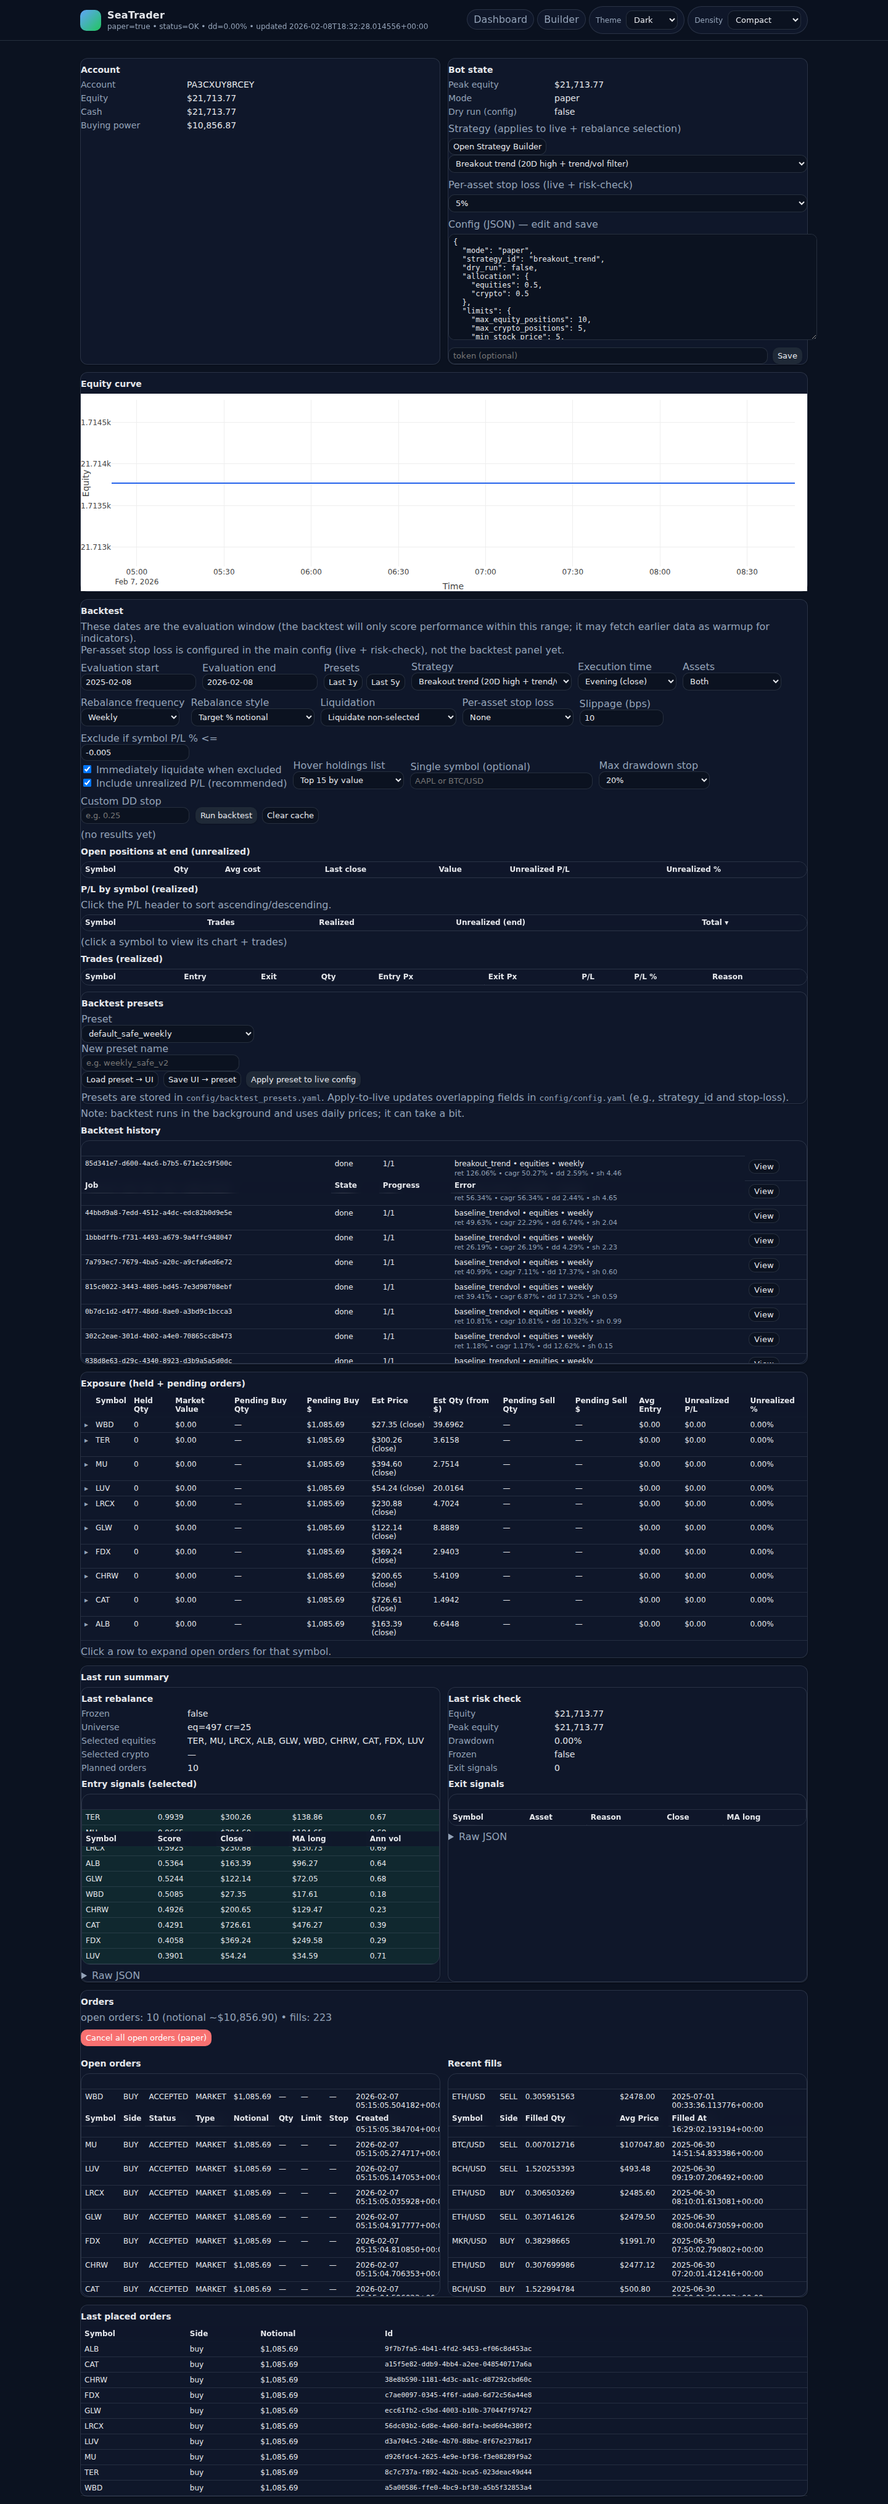
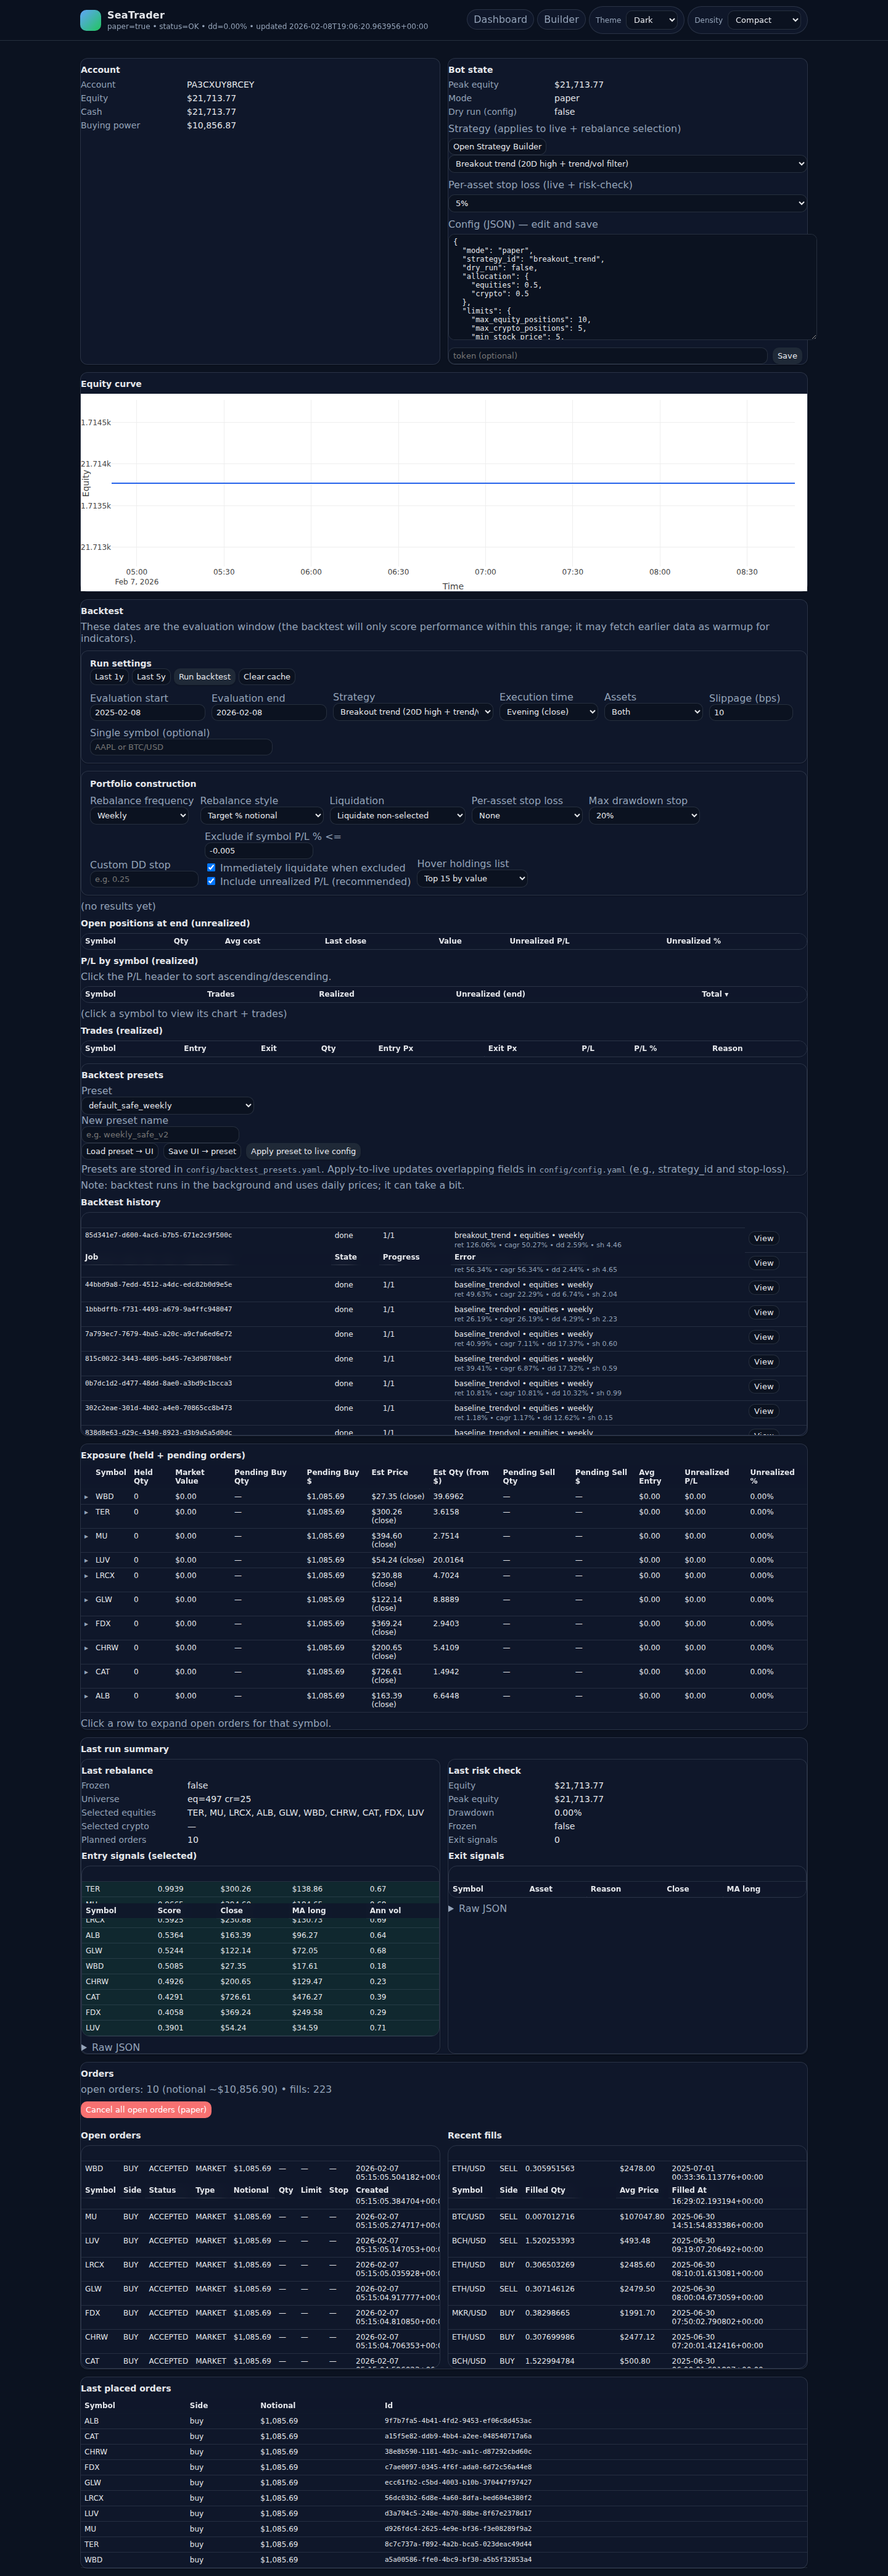
Dashboard UX: regroup backtest controls + theme consistency

diff --git a/src/tradebot/dashboard/index.html b/src/tradebot/dashboard/index.html
@@ -118,116 +118,125 @@
     <div class="card col-12">
       <h2>Backtest</h2>
       <div class="muted">These dates are the evaluation window (the backtest will only score performance within this range; it may fetch earlier data as warmup for indicators).</div>
-      <div class="muted">Per-asset stop loss is configured in the main config (live + risk-check), not the backtest panel yet.</div>
-      <div style="display:flex; gap:10px; align-items:flex-end; flex-wrap: wrap; margin-top:8px;">
-        <div>
-          <div class="muted">Evaluation start</div>
-          <input id="btStart" placeholder="YYYY-MM-DD" />
-        </div>
-        <div>
-          <div class="muted">Evaluation end</div>
-          <input id="btEnd" placeholder="YYYY-MM-DD" />
-        </div>
-        <div>
-          <div class="muted">Presets</div>
-          <div style="display:flex; gap:6px;">
-            <button id="btPreset1y" class="secondary">Last 1y</button>
-            <button id="btPreset5y" class="secondary">Last 5y</button>
+
+      <div class="grid" style="margin-top:10px; grid-template-columns: repeat(12, 1fr); gap:12px;">
+        <div class="card col-12" style="padding:12px 14px;">
+          <div class="row" style="justify-content:space-between; align-items:center;">
+            <h2 style="margin:0;">Run settings</h2>
+            <div class="row" style="align-items:center; gap:8px;">
+              <button id="btPreset1y" class="secondary">Last 1y</button>
+              <button id="btPreset5y" class="secondary">Last 5y</button>
+              <span id="btStatus" class="muted"></span>
+              <button id="btRun" class="primary">Run backtest</button>
+              <button id="btClearCache" class="secondary">Clear cache</button>
+            </div>
+          </div>
+
+          <div style="display:flex; gap:10px; align-items:flex-end; flex-wrap: wrap; margin-top:10px;">
+            <div>
+              <div class="muted">Evaluation start</div>
+              <input id="btStart" placeholder="YYYY-MM-DD" />
+            </div>
+            <div>
+              <div class="muted">Evaluation end</div>
+              <input id="btEnd" placeholder="YYYY-MM-DD" />
+            </div>
+            <div>
+              <div class="muted">Strategy</div>
+              <select id="btStrategy" style="width:260px;"></select>
+            </div>
+            <div>
+              <div class="muted">Execution time</div>
+              <select id="btExecTime" style="width:160px;">
+                <option value="open">Morning (open)</option>
+                <option value="close" selected>Evening (close)</option>
+              </select>
+            </div>
+            <div>
+              <div class="muted">Assets</div>
+              <select id="btAssets" style="width:160px;">
+                <option value="both" selected>Both</option>
+                <option value="equities">Stocks only</option>
+                <option value="crypto">Crypto only</option>
+              </select>
+            </div>
+            <div>
+              <div class="muted">Slippage (bps)</div>
+              <input id="btSlip" placeholder="10" value="10" style="width:120px;" />
+            </div>
+            <div>
+              <div class="muted">Single symbol (optional)</div>
+              <input id="btSymbol" placeholder="AAPL or BTC/USD" style="min-width:280px;" />
+            </div>
           </div>
         </div>
-        <div>
-          <div class="muted">Strategy</div>
-          <select id="btStrategy" style="width:260px;"></select>
-        </div>
-        <div>
-          <div class="muted">Execution time</div>
-          <select id="btExecTime" style="width:160px;">
-            <option value="open">Morning (open)</option>
-            <option value="close" selected>Evening (close)</option>
-          </select>
-        </div>
-        <div>
-          <div class="muted">Assets</div>
-          <select id="btAssets" style="width:160px;">
-            <option value="both" selected>Both</option>
-            <option value="equities">Stocks only</option>
-            <option value="crypto">Crypto only</option>
-          </select>
-        </div>
-        <div>
-          <div class="muted">Rebalance frequency</div>
-          <select id="btRebalance" style="width:160px;">
-            <option value="weekly" selected>Weekly</option>
-            <option value="daily">Daily</option>
-          </select>
-        </div>
-        <div>
-          <div class="muted">Rebalance style</div>
-          <select id="btRebalanceMode" style="width:200px;">
-            <option value="target_notional" selected>Target % notional</option>
-            <option value="no_add_to_losers">Don't add to losers</option>
-          </select>
-        </div>
-        <div>
-          <div class="muted">Liquidation</div>
-          <select id="btLiquidation" style="width:220px;">
-            <option value="liquidate_non_selected" selected>Liquidate non-selected</option>
-            <option value="hold_until_exit">Hold until exit signal</option>
-          </select>
-        </div>
-        <div>
-          <div class="muted">Per-asset stop loss</div>
-          <select id="btStopLoss" style="width:180px;">
-            <option value="">None</option>
-            <option value="0.01">1%</option><option value="0.02">2%</option><option value="0.03">3%</option><option value="0.04">4%</option><option value="0.05">5%</option>
-            <option value="0.06">6%</option><option value="0.07">7%</option><option value="0.08">8%</option><option value="0.09">9%</option><option value="0.10">10%</option>
-            <option value="0.11">11%</option><option value="0.12">12%</option><option value="0.13">13%</option><option value="0.14">14%</option><option value="0.15">15%</option>
-            <option value="0.16">16%</option><option value="0.17">17%</option><option value="0.18">18%</option><option value="0.19">19%</option><option value="0.20">20%</option>
-          </select>
-        </div>
-        <div>
-          <div class="muted">Slippage (bps)</div>
-          <input id="btSlip" placeholder="10" value="10" style="width:120px;" />
-        </div>
-        <div>
-          <div class="muted">Exclude if symbol P/L % &lt;=</div>
-          <input id="btSymFloor" placeholder="e.g. -0.005" value="-0.005" style="width:160px;" />
-          <label class="muted" style="display:block; margin-top:4px;">
-            <input id="btSymFloorLiquidate" type="checkbox" checked /> Immediately liquidate when excluded
-          </label>
-          <label class="muted" style="display:block; margin-top:2px;">
-            <input id="btSymFloorInclUnreal" type="checkbox" checked /> Include unrealized P/L (recommended)
-          </label>
-        </div>
-        <div>
-          <div class="muted">Hover holdings list</div>
-          <select id="btHoldMode" style="width:180px;">
-            <option value="top" selected>Top 15 by value</option>
-            <option value="bottom">Bottom 15 by value</option>
-          </select>
-        </div>
-        <div>
-          <div class="muted">Single symbol (optional)</div>
-          <input id="btSymbol" placeholder="AAPL or BTC/USD" style="min-width:280px;" />
-        </div>
-        <div>
-          <div class="muted">Max drawdown stop</div>
-          <select id="btDDPreset" style="width:180px;">
-            <option value="">None</option>
-            <option value="0.20" selected>20%</option>
-            <option value="0.30">30%</option>
-            <option value="0.40">40%</option>
-            <option value="0.50">50%</option>
-          </select>
-        </div>
-        <div>
-          <div class="muted">Custom DD stop</div>
-          <input id="btDD" placeholder="e.g. 0.25" style="width:160px;" />
-        </div>
-        <div style="display:flex; gap:8px; align-items:center;">
-          <button id="btRun" class="primary">Run backtest</button>
-          <button id="btClearCache" class="secondary">Clear cache</button>
-          <span id="btStatus" class="muted"></span>
+
+        <div class="card col-12" style="padding:12px 14px;">
+          <h2 style="margin:0 0 10px 0;">Portfolio construction</h2>
+          <div style="display:flex; gap:10px; align-items:flex-end; flex-wrap: wrap;">
+            <div>
+              <div class="muted">Rebalance frequency</div>
+              <select id="btRebalance" style="width:160px;">
+                <option value="weekly" selected>Weekly</option>
+                <option value="daily">Daily</option>
+              </select>
+            </div>
+            <div>
+              <div class="muted">Rebalance style</div>
+              <select id="btRebalanceMode" style="width:200px;">
+                <option value="target_notional" selected>Target % notional</option>
+                <option value="no_add_to_losers">Don't add to losers</option>
+              </select>
+            </div>
+            <div>
+              <div class="muted">Liquidation</div>
+              <select id="btLiquidation" style="width:220px;">
+                <option value="liquidate_non_selected" selected>Liquidate non-selected</option>
+                <option value="hold_until_exit">Hold until exit signal</option>
+              </select>
+            </div>
+            <div>
+              <div class="muted">Per-asset stop loss</div>
+              <select id="btStopLoss" style="width:180px;">
+                <option value="">None</option>
+                <option value="0.01">1%</option><option value="0.02">2%</option><option value="0.03">3%</option><option value="0.04">4%</option><option value="0.05">5%</option>
+                <option value="0.06">6%</option><option value="0.07">7%</option><option value="0.08">8%</option><option value="0.09">9%</option><option value="0.10">10%</option>
+                <option value="0.11">11%</option><option value="0.12">12%</option><option value="0.13">13%</option><option value="0.14">14%</option><option value="0.15">15%</option>
+                <option value="0.16">16%</option><option value="0.17">17%</option><option value="0.18">18%</option><option value="0.19">19%</option><option value="0.20">20%</option>
+              </select>
+            </div>
+            <div>
+              <div class="muted">Max drawdown stop</div>
+              <select id="btDDPreset" style="width:180px;">
+                <option value="">None</option>
+                <option value="0.20" selected>20%</option>
+                <option value="0.30">30%</option>
+                <option value="0.40">40%</option>
+                <option value="0.50">50%</option>
+              </select>
+            </div>
+            <div>
+              <div class="muted">Custom DD stop</div>
+              <input id="btDD" placeholder="e.g. 0.25" style="width:160px;" />
+            </div>
+            <div>
+              <div class="muted">Exclude if symbol P/L % &lt;=</div>
+              <input id="btSymFloor" placeholder="e.g. -0.005" value="-0.005" style="width:160px;" />
+              <label class="muted" style="display:block; margin-top:4px;">
+                <input id="btSymFloorLiquidate" type="checkbox" checked /> Immediately liquidate when excluded
+              </label>
+              <label class="muted" style="display:block; margin-top:2px;">
+                <input id="btSymFloorInclUnreal" type="checkbox" checked /> Include unrealized P/L (recommended)
+              </label>
+            </div>
+            <div>
+              <div class="muted">Hover holdings list</div>
+              <select id="btHoldMode" style="width:180px;">
+                <option value="top" selected>Top 15 by value</option>
+                <option value="bottom">Bottom 15 by value</option>
+              </select>
+            </div>
+          </div>
         </div>
       </div>
       <div id="btMetrics" class="muted" style="margin-top:8px;"></div>
